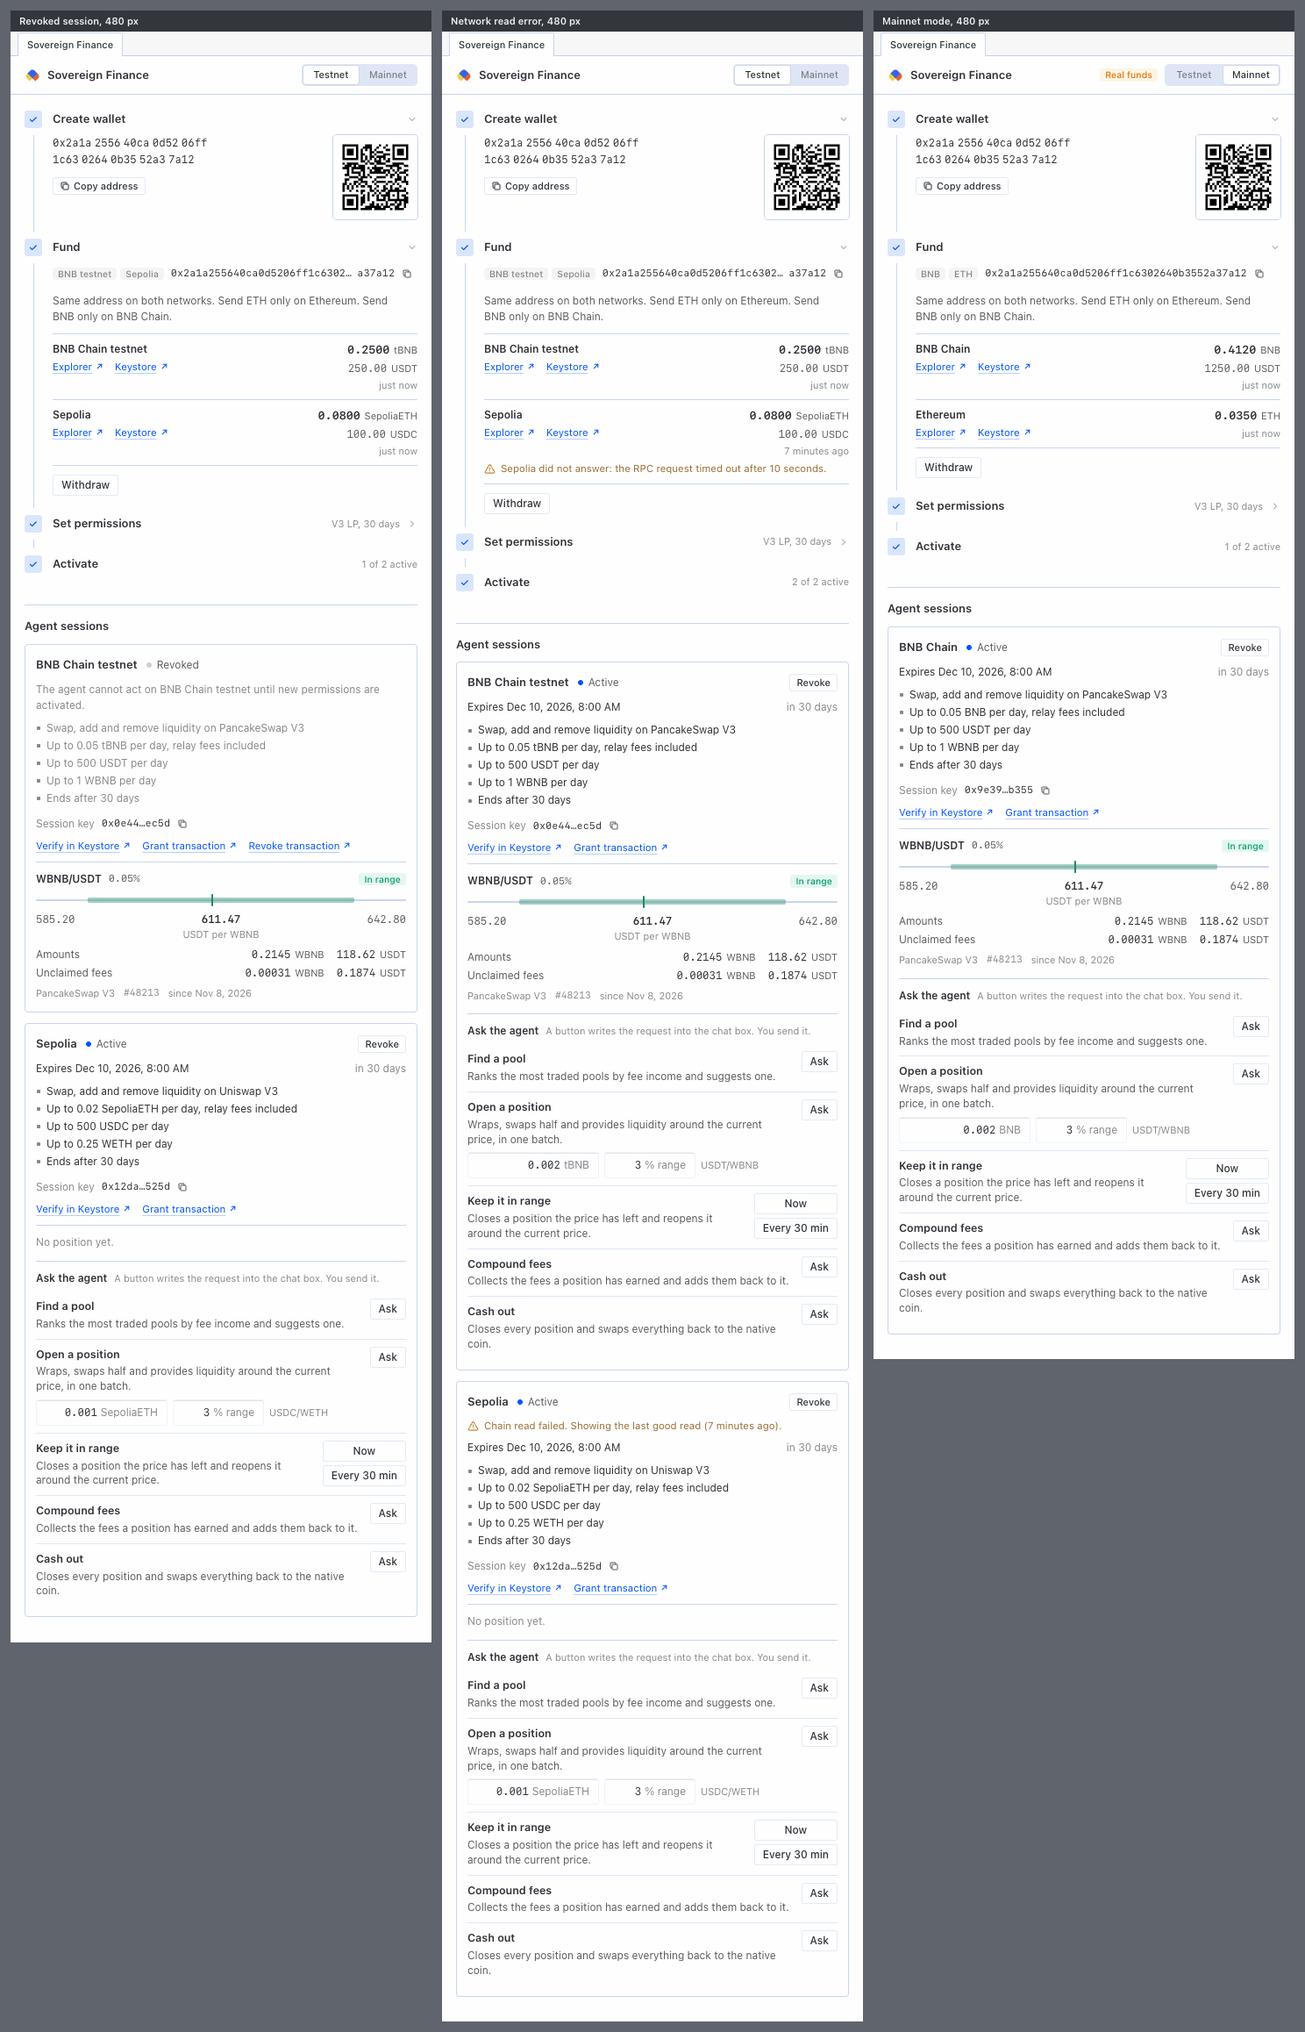
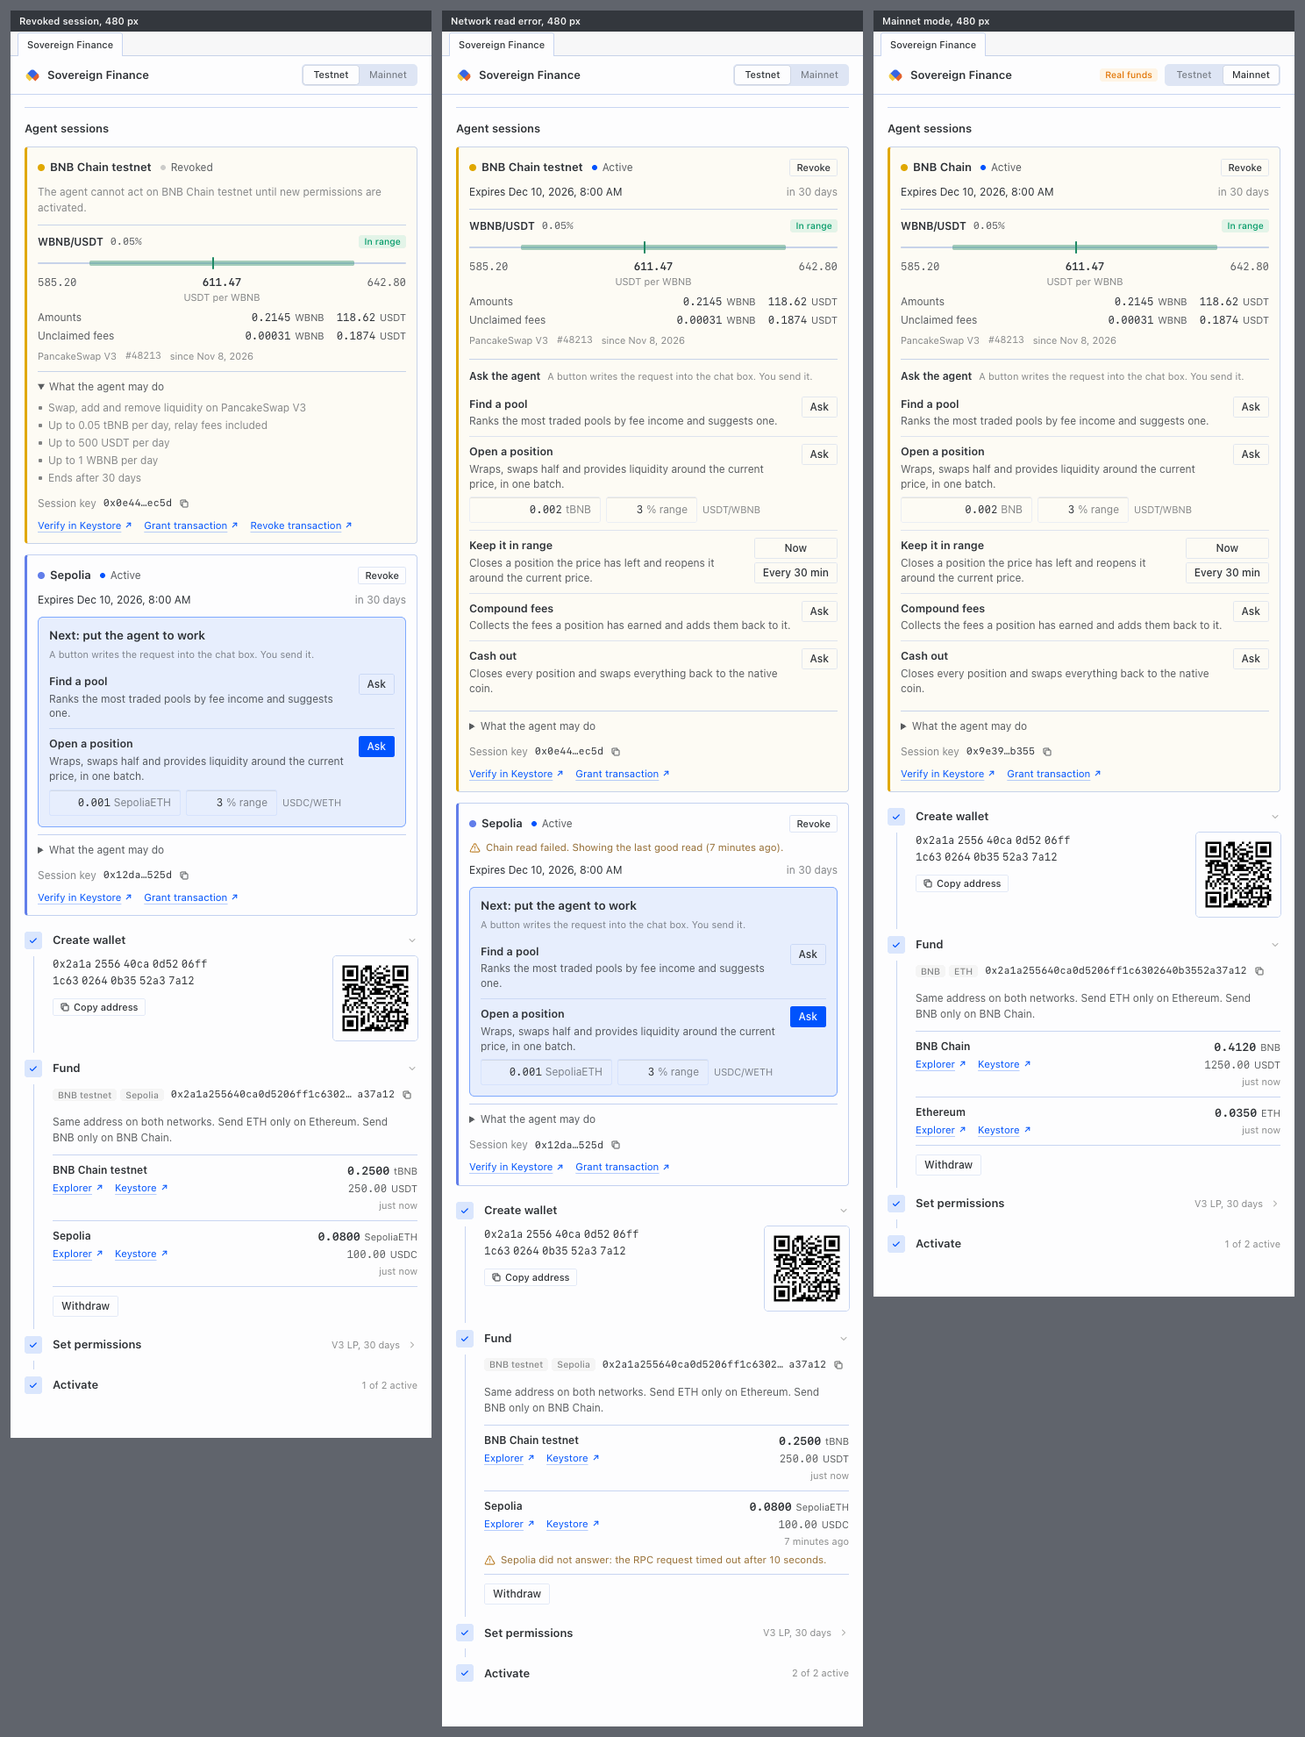
Order the pane by where the user stands
- Once the agent has a session, its networks come first and the setup steps follow.
- A network with no position leads with the next step; one with positions shows them
  first and the follow-up requests after.
- Each network has its own colour, and the permission list folds away.

diff --git a/desktop/plugin.js b/desktop/plugin.js
@@ -977,6 +977,7 @@ import { useId, useState as useState3 } from "react";
 var PLAYS = [
   {
     id: "find",
+    when: "both",
     title: "Find a pool",
     blurb: "Ranks the most traded pools by fee income and suggests one.",
     actions: [
@@ -988,6 +989,7 @@ var PLAYS = [
   },
   {
     id: "open",
+    when: "both",
     title: "Open a position",
     blurb: "Wraps, swaps half and provides liquidity around the current price, in one batch.",
     sized: true,
@@ -1000,6 +1002,7 @@ var PLAYS = [
   },
   {
     id: "keep",
+    when: "holding",
     title: "Keep it in range",
     blurb: "Closes a position the price has left and reopens it around the current price.",
     actions: [
@@ -1015,6 +1018,7 @@ var PLAYS = [
   },
   {
     id: "compound",
+    when: "holding",
     title: "Compound fees",
     blurb: "Collects the fees a position has earned and adds them back to it.",
     actions: [
@@ -1023,6 +1027,7 @@ var PLAYS = [
   },
   {
     id: "exit",
+    when: "holding",
     title: "Cash out",
     blurb: "Closes every position and swaps everything back to the native coin.",
     actions: [
@@ -1065,7 +1070,7 @@ var NOTE = {
   copied: "Copied. Paste it into a chat and send it.",
   failed: "Open a chat first, then press the button again."
 };
-function Plays({ network: network2 }) {
+function Plays({ network: network2, stage }) {
   const uid = useId();
   const defaults = defaultsFor(network2);
   const [amount, setAmount] = useState3(defaults.amount);
@@ -1082,12 +1087,12 @@ function Plays({ network: network2 }) {
   const run = async (play, request) => {
     setNote({ id: play.id, kind: await hand(request(context)) });
   };
-  return /* @__PURE__ */ jsxs5("section", { className: "sf-plays", children: [
+  return /* @__PURE__ */ jsxs5("section", { className: "sf-plays", "data-stage": stage, children: [
     /* @__PURE__ */ jsxs5("div", { className: "sf-plays-head", children: [
-      /* @__PURE__ */ jsx5("span", { className: "sf-strong", children: "Ask the agent" }),
+      /* @__PURE__ */ jsx5("span", { className: "sf-strong", children: stage === "start" ? "Next: put the agent to work" : "Ask the agent" }),
       /* @__PURE__ */ jsx5("span", { className: "sf-hint", children: "A button writes the request into the chat box. You send it." })
     ] }),
-    /* @__PURE__ */ jsx5("ul", { className: "sf-play-list", children: PLAYS.map((play) => /* @__PURE__ */ jsxs5("li", { className: "sf-play", children: [
+    /* @__PURE__ */ jsx5("ul", { className: "sf-play-list", children: PLAYS.filter((play) => play.when === "both" || play.when === stage).map((play) => /* @__PURE__ */ jsxs5("li", { className: "sf-play", children: [
       /* @__PURE__ */ jsxs5("div", { className: "sf-play-text", children: [
         /* @__PURE__ */ jsx5("span", { className: "sf-play-title", children: play.title }),
         /* @__PURE__ */ jsx5("span", { className: "sf-play-blurb", children: play.blurb }),
@@ -1118,7 +1123,17 @@ function Plays({ network: network2 }) {
         ] }) : null,
         note?.id === play.id ? /* @__PURE__ */ jsx5("span", { className: "sf-play-note", children: NOTE[note.kind] }) : null
       ] }),
-      /* @__PURE__ */ jsx5("div", { className: "sf-play-actions", children: play.actions.map((action) => /* @__PURE__ */ jsx5(Button2, { onClick: () => void run(play, action.request), size: "sm", type: "button", variant: "outline", children: action.label }, action.label)) })
+      /* @__PURE__ */ jsx5("div", { className: "sf-play-actions", children: play.actions.map((action) => /* @__PURE__ */ jsx5(
+        Button2,
+        {
+          onClick: () => void run(play, action.request),
+          size: "sm",
+          type: "button",
+          variant: stage === "start" && play.id === "open" ? "default" : "outline",
+          children: action.label
+        },
+        action.label
+      )) })
     ] }, play.id)) })
   ] });
 }
@@ -1211,9 +1226,13 @@ function SessionCard({ network: network2, session: session2 }) {
   const expiry = session2.expiry > 0 ? session2.expiry * 1e3 : null;
   const asOf = parseTime(network2.asOf);
   const canRevoke = session2.status !== "revoked" && session2.status !== "expired";
-  return /* @__PURE__ */ jsxs6("li", { className: "sf-card", "data-status": session2.status, children: [
+  const holding = network2.positions.length > 0;
+  return /* @__PURE__ */ jsxs6("li", { className: "sf-card", "data-net": network2.key, "data-status": session2.status, children: [
     /* @__PURE__ */ jsxs6("div", { className: "sf-card-head", children: [
-      /* @__PURE__ */ jsx6("span", { className: "sf-card-net", children: network2.name }),
+      /* @__PURE__ */ jsxs6("span", { className: "sf-card-net", children: [
+        /* @__PURE__ */ jsx6("span", { className: "sf-net-dot" }),
+        network2.name
+      ] }),
       /* @__PURE__ */ jsxs6("span", { className: "sf-card-status", children: [
         /* @__PURE__ */ jsx6(StatusDot, { tone: status.tone }),
         status.label
@@ -1238,7 +1257,13 @@ function SessionCard({ network: network2, session: session2 }) {
       ] }),
       /* @__PURE__ */ jsx6("span", { className: "sf-dim", children: relativeTime(expiry, now) })
     ] }) : null,
-    session2.scopeText.length > 0 ? /* @__PURE__ */ jsx6("ul", { className: "sf-scope", children: session2.scopeText.map((line, i) => /* @__PURE__ */ jsx6("li", { children: line }, i)) }) : null,
+    holding === false && session2.status === "active" ? /* @__PURE__ */ jsx6(Plays, { network: network2, stage: "start" }) : null,
+    network2.positions.length > 0 ? /* @__PURE__ */ jsx6("ul", { className: "sf-positions", children: network2.positions.map((position2) => /* @__PURE__ */ jsx6(PositionBlock, { dex: network2.dex, position: position2 }, position2.tokenId || position2.pair)) }) : null,
+    holding && session2.status === "active" ? /* @__PURE__ */ jsx6(Plays, { network: network2, stage: "holding" }) : null,
+    session2.scopeText.length > 0 ? /* @__PURE__ */ jsxs6("details", { className: "sf-more", open: session2.status !== "active" || void 0, children: [
+      /* @__PURE__ */ jsx6("summary", { children: "What the agent may do" }),
+      /* @__PURE__ */ jsx6("ul", { className: "sf-scope", children: session2.scopeText.map((line, i) => /* @__PURE__ */ jsx6("li", { children: line }, i)) })
+    ] }) : null,
     /* @__PURE__ */ jsxs6("div", { className: "sf-card-foot", children: [
       session2.keyId ? /* @__PURE__ */ jsxs6("span", { className: "sf-card-key", children: [
         /* @__PURE__ */ jsx6("span", { className: "sf-dim", children: "Session key" }),
@@ -1250,8 +1275,6 @@ function SessionCard({ network: network2, session: session2 }) {
         /* @__PURE__ */ jsx6(ExtLink, { href: session2.revokeTxUrl, children: "Revoke transaction" })
       ] })
     ] }),
-    network2.positions.length > 0 ? /* @__PURE__ */ jsx6("ul", { className: "sf-positions", children: network2.positions.map((position2) => /* @__PURE__ */ jsx6(PositionBlock, { dex: network2.dex, position: position2 }, position2.tokenId || position2.pair)) }) : session2.status === "active" ? /* @__PURE__ */ jsx6("p", { className: "sf-empty", children: "No position yet." }) : null,
-    session2.status === "active" ? /* @__PURE__ */ jsx6(Plays, { network: network2 }) : null,
     /* @__PURE__ */ jsx6(
       ConfirmDialog2,
       {
@@ -2613,6 +2636,16 @@ button.sf-step-head:hover .sf-step-caret{color:var(--sf-fg)}
 .sf-section-title{font-size:13px;font-weight:600}
 .sf-cards{display:flex;flex-direction:column;gap:12px}
 .sf-plays{display:flex;flex-direction:column;gap:6px;margin-top:4px;padding-top:10px;border-top:1px solid var(--sf-line)}
+.sf-plays[data-stage=start]{margin-top:2px;padding:10px 12px 4px;border:1px solid color-mix(in srgb,var(--sf-accent) 45%,transparent);border-radius:6px;background:color-mix(in srgb,var(--sf-accent) 7%,transparent)}
+.sf-plays[data-stage=start] .sf-plays-head .sf-strong{font-size:13.5px}
+.sf-card[data-net=bnb]{--sf-net:#e0a800}
+.sf-card[data-net=ethereum]{--sf-net:#627eea}
+.sf-card[data-net]{border-left:3px solid var(--sf-net);background:color-mix(in srgb,var(--sf-net) 4%,transparent)}
+.sf-card-net{display:inline-flex;align-items:center;gap:6px}
+.sf-net-dot{width:8px;height:8px;border-radius:50%;background:var(--sf-net,var(--sf-fg3))}
+.sf-more{border-top:1px solid var(--sf-line);padding-top:8px}
+.sf-more summary{cursor:pointer;color:var(--sf-fg2);font-size:12px;list-style-position:inside}
+.sf-more[open] summary{margin-bottom:6px}
 .sf-plays-head{display:flex;flex-wrap:wrap;align-items:baseline;gap:4px 8px}
 .sf-play-list{display:flex;flex-direction:column;gap:0;margin:0;padding:0;list-style:none}
 .sf-play{display:flex;align-items:flex-start;gap:10px;padding:8px 0;border-top:1px solid color-mix(in srgb,var(--sf-line) 60%,transparent)}
@@ -2990,6 +3023,7 @@ function Pane({ ctx, store }) {
     (next) => setGrantDraft(next && mode ? { mode, draft: next } : null),
     [mode]
   );
+  const working = state?.networks.some((n) => n.session?.status === "active") ?? false;
   let body;
   if (error?.forbidden) {
     body = /* @__PURE__ */ jsx11(FailedBody, { message: error.message, onRetry: store.refresh, title: "Local Desktop only" });
@@ -3001,8 +3035,9 @@ function Pane({ ctx, store }) {
         "Not refreshed. ",
         error.message
       ] }) : null,
+      working ? /* @__PURE__ */ jsx11(LiveSection, { networks: state.networks }) : null,
       /* @__PURE__ */ jsx11(Steps, { draft, onDraft, onWithdraw: () => setWithdrawing(true), state }),
-      /* @__PURE__ */ jsx11(LiveSection, { networks: state.networks })
+      working ? null : /* @__PURE__ */ jsx11(LiveSection, { networks: state.networks })
     ] });
   }
   return /* @__PURE__ */ jsxs11(PaneContext.Provider, { value: env, children: [

diff --git a/pane/src/live.tsx b/pane/src/live.tsx
@@ -111,11 +111,15 @@ function SessionCard({ network, session }: { network: NetworkState; session: Ses
   const expiry = session.expiry > 0 ? session.expiry * 1000 : null
   const asOf = parseTime(network.asOf)
   const canRevoke = session.status !== 'revoked' && session.status !== 'expired'
+  const holding = network.positions.length > 0
 
   return (
-    <li className="sf-card" data-status={session.status}>
+    <li className="sf-card" data-net={network.key} data-status={session.status}>
       <div className="sf-card-head">
-        <span className="sf-card-net">{network.name}</span>
+        <span className="sf-card-net">
+          <span className="sf-net-dot" />
+          {network.name}
+        </span>
         <span className="sf-card-status">
           <StatusDot tone={status.tone} />
           {status.label}
@@ -146,12 +150,26 @@ function SessionCard({ network, session }: { network: NetworkState; session: Ses
         </div>
       ) : null}
 
-      {session.scopeText.length > 0 ? (
-        <ul className="sf-scope">
-          {session.scopeText.map((line, i) => (
-            <li key={i}>{line}</li>
+      {holding === false && session.status === 'active' ? <Plays network={network} stage="start" /> : null}
+
+      {network.positions.length > 0 ? (
+        <ul className="sf-positions">
+          {network.positions.map(position => (
+            <PositionBlock dex={network.dex} key={position.tokenId || position.pair} position={position} />
           ))}
         </ul>
+      ) : null}
+      {holding && session.status === 'active' ? <Plays network={network} stage="holding" /> : null}
+
+      {session.scopeText.length > 0 ? (
+        <details className="sf-more" open={session.status !== 'active' || undefined}>
+          <summary>What the agent may do</summary>
+          <ul className="sf-scope">
+            {session.scopeText.map((line, i) => (
+              <li key={i}>{line}</li>
+            ))}
+          </ul>
+        </details>
       ) : null}
 
       <div className="sf-card-foot">
@@ -167,17 +185,6 @@ function SessionCard({ network, session }: { network: NetworkState; session: Ses
           <ExtLink href={session.revokeTxUrl}>Revoke transaction</ExtLink>
         </span>
       </div>
-
-      {network.positions.length > 0 ? (
-        <ul className="sf-positions">
-          {network.positions.map(position => (
-            <PositionBlock dex={network.dex} key={position.tokenId || position.pair} position={position} />
-          ))}
-        </ul>
-      ) : session.status === 'active' ? (
-        <p className="sf-empty">No position yet.</p>
-      ) : null}
-      {session.status === 'active' ? <Plays network={network} /> : null}
 
       <ConfirmDialog
         confirmLabel="Revoke"

diff --git a/pane/src/plays-view.tsx b/pane/src/plays-view.tsx
@@ -33,7 +33,12 @@ const NOTE = {
   failed: 'Open a chat first, then press the button again.'
 } as const
 
-export function Plays({ network }: { network: NetworkState }) {
+/**
+ * `stage` is where the wallet stands on this network. At "start" it holds no position, so the plays
+ * are the next step and are shown as one: first in the card, tinted, with a filled button. Once it
+ * holds one they are follow-ups and sit under the positions.
+ */
+export function Plays({ network, stage }: { network: NetworkState; stage: 'start' | 'holding' }) {
   const uid = useId()
   const defaults = defaultsFor(network)
   const [amount, setAmount] = useState(defaults.amount)
@@ -54,13 +59,13 @@ export function Plays({ network }: { network: NetworkState }) {
   }
 
   return (
-    <section className="sf-plays">
+    <section className="sf-plays" data-stage={stage}>
       <div className="sf-plays-head">
-        <span className="sf-strong">Ask the agent</span>
+        <span className="sf-strong">{stage === 'start' ? 'Next: put the agent to work' : 'Ask the agent'}</span>
         <span className="sf-hint">A button writes the request into the chat box. You send it.</span>
       </div>
       <ul className="sf-play-list">
-        {PLAYS.map(play => (
+        {PLAYS.filter(play => play.when === 'both' || play.when === stage).map(play => (
           <li className="sf-play" key={play.id}>
             <div className="sf-play-text">
               <span className="sf-play-title">{play.title}</span>
@@ -94,7 +99,13 @@ export function Plays({ network }: { network: NetworkState }) {
             </div>
             <div className="sf-play-actions">
               {play.actions.map(action => (
-                <Button key={action.label} onClick={() => void run(play, action.request)} size="sm" type="button" variant="outline">
+                <Button
+                  key={action.label}
+                  onClick={() => void run(play, action.request)}
+                  size="sm"
+                  type="button"
+                  variant={stage === 'start' && play.id === 'open' ? 'default' : 'outline'}
+                >
                   {action.label}
                 </Button>
               ))}

diff --git a/pane/src/plays.ts b/pane/src/plays.ts
@@ -19,6 +19,8 @@ export interface Play {
   id: string
   title: string
   blurb: string
+  /** When it is offered: before the wallet holds a position, once it does, or both. */
+  when: 'start' | 'holding' | 'both'
   /** Shows the amount and range fields. */
   sized?: boolean
   /** Buttons, each with the request it writes. */
@@ -28,6 +30,7 @@ export interface Play {
 export const PLAYS: Play[] = [
   {
     id: 'find',
+    when: 'both',
     title: 'Find a pool',
     blurb: 'Ranks the most traded pools by fee income and suggests one.',
     actions: [
@@ -40,6 +43,7 @@ export const PLAYS: Play[] = [
   },
   {
     id: 'open',
+    when: 'both',
     title: 'Open a position',
     blurb: 'Wraps, swaps half and provides liquidity around the current price, in one batch.',
     sized: true,
@@ -53,6 +57,7 @@ export const PLAYS: Play[] = [
   },
   {
     id: 'keep',
+    when: 'holding',
     title: 'Keep it in range',
     blurb: 'Closes a position the price has left and reopens it around the current price.',
     actions: [
@@ -69,6 +74,7 @@ export const PLAYS: Play[] = [
   },
   {
     id: 'compound',
+    when: 'holding',
     title: 'Compound fees',
     blurb: 'Collects the fees a position has earned and adds them back to it.',
     actions: [
@@ -77,6 +83,7 @@ export const PLAYS: Play[] = [
   },
   {
     id: 'exit',
+    when: 'holding',
     title: 'Cash out',
     blurb: 'Closes every position and swaps everything back to the native coin.',
     actions: [

diff --git a/pane/src/styles.ts b/pane/src/styles.ts
@@ -216,6 +216,16 @@ button.sf-step-head:hover .sf-step-caret{color:var(--sf-fg)}
 .sf-section-title{font-size:13px;font-weight:600}
 .sf-cards{display:flex;flex-direction:column;gap:12px}
 .sf-plays{display:flex;flex-direction:column;gap:6px;margin-top:4px;padding-top:10px;border-top:1px solid var(--sf-line)}
+.sf-plays[data-stage=start]{margin-top:2px;padding:10px 12px 4px;border:1px solid color-mix(in srgb,var(--sf-accent) 45%,transparent);border-radius:6px;background:color-mix(in srgb,var(--sf-accent) 7%,transparent)}
+.sf-plays[data-stage=start] .sf-plays-head .sf-strong{font-size:13.5px}
+.sf-card[data-net=bnb]{--sf-net:#e0a800}
+.sf-card[data-net=ethereum]{--sf-net:#627eea}
+.sf-card[data-net]{border-left:3px solid var(--sf-net);background:color-mix(in srgb,var(--sf-net) 4%,transparent)}
+.sf-card-net{display:inline-flex;align-items:center;gap:6px}
+.sf-net-dot{width:8px;height:8px;border-radius:50%;background:var(--sf-net,var(--sf-fg3))}
+.sf-more{border-top:1px solid var(--sf-line);padding-top:8px}
+.sf-more summary{cursor:pointer;color:var(--sf-fg2);font-size:12px;list-style-position:inside}
+.sf-more[open] summary{margin-bottom:6px}
 .sf-plays-head{display:flex;flex-wrap:wrap;align-items:baseline;gap:4px 8px}
 .sf-play-list{display:flex;flex-direction:column;gap:0;margin:0;padding:0;list-style:none}
 .sf-play{display:flex;align-items:flex-start;gap:10px;padding:8px 0;border-top:1px solid color-mix(in srgb,var(--sf-line) 60%,transparent)}

diff --git a/pane/src/app.tsx b/pane/src/app.tsx
@@ -187,6 +187,7 @@ export function Pane({ ctx, store }: { ctx: PluginContext; store: Store }) {
     [mode]
   )
 
+  const working = state?.networks.some(n => n.session?.status === 'active') ?? false
   let body
   if (error?.forbidden) {
     body = <FailedBody message={error.message} onRetry={store.refresh} title="Local Desktop only" />
@@ -196,8 +197,10 @@ export function Pane({ ctx, store }: { ctx: PluginContext; store: Store }) {
     body = (
       <div className="sf-content" data-busy={jobIsActive(job) || undefined} data-pending={pendingMode !== null || undefined}>
         {error ? <Warning>Not refreshed. {error.message}</Warning> : null}
+        {/* Once the agent has a session, what it is doing comes first and the setup steps follow. */}
+        {working ? <LiveSection networks={state.networks} /> : null}
         <Steps draft={draft} onDraft={onDraft} onWithdraw={() => setWithdrawing(true)} state={state} />
-        <LiveSection networks={state.networks} />
+        {working ? null : <LiveSection networks={state.networks} />}
       </div>
     )
   }
